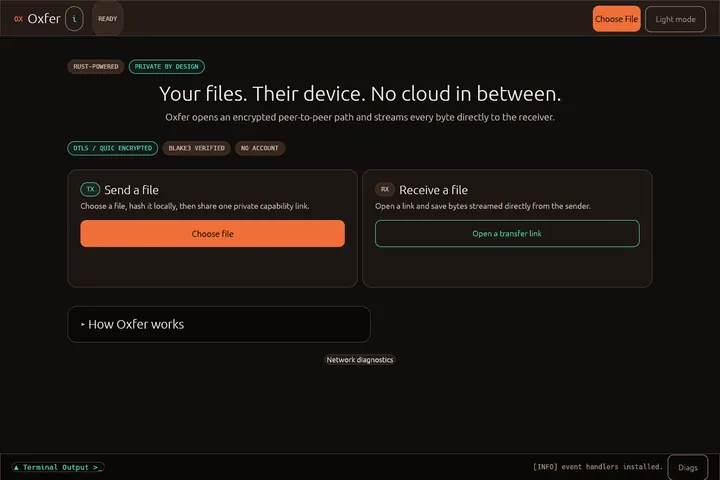
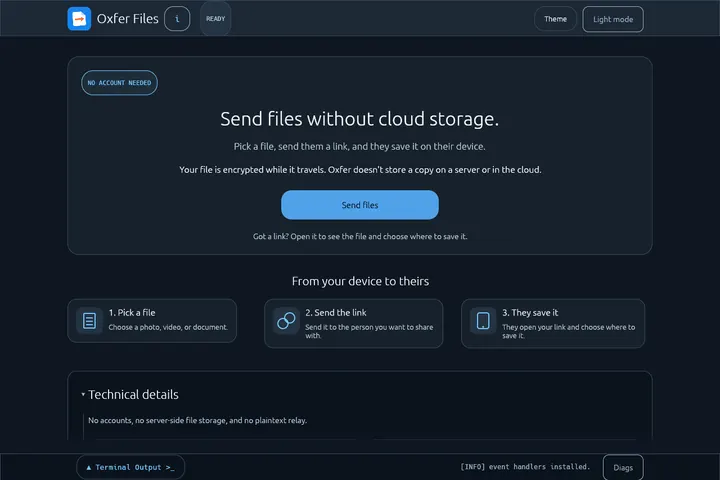
Oxfer: point to oxfer.app and refresh screenshot
Claude-Session: https://claude.ai/code/session_01Ry7pzuoBL4wEXqriU8xnUb

diff --git a/src/data.js b/src/data.js
@@ -135,7 +135,7 @@ const PROJECTS = [
    body:['SyncOxiders syncs files and email across cloud providers and adds inter-cloud encryption, sharing and backup — an end-to-end encrypted layer over the storage you already use.',
          'Written in Rust with a focus on safety and performance. Its peer-to-peer browser transfer ships as Oxfer, a standalone web app.']},
   {id:'oxfer',name:'Oxfer',kind:'app',cats:['fs','realtime'],shot:'oxfer',fit:'top',
-   live:'https://oxfer.pages.dev/',repo:'https://github.com/radumarias/syncoxiders/tree/main/p2p-transfer',issues:'https://github.com/radumarias/syncoxiders/issues',tags:['e2ee','p2p'],tech:['Rust','WebAssembly','E2EE','WebRTC','iroh','BLAKE3'],
+   live:'https://oxfer.app/',repo:'https://github.com/radumarias/syncoxiders/tree/main/p2p-transfer',issues:'https://github.com/radumarias/syncoxiders/issues',tags:['e2ee','p2p'],tech:['Rust','WebAssembly','E2EE','WebRTC','iroh','BLAKE3'],
    blurb:'End-to-end encrypted, peer-to-peer file transfer in the browser — your files, their device, no cloud in between.',
    body:['Pick a file, share one private link, and the receiver pulls it straight from your browser. Oxfer goes peer-to-peer whenever the network allows: the two browsers open a direct WebRTC data channel, so your files never pass through a server. No accounts, no uploads, no cloud storage: your files exist only on the two devices.',
          'Encrypted end to end on every path. The direct channel is DTLS between the two browsers. When no direct route exists, the transfer falls back to an iroh relay over QUIC with TLS 1.3, authenticated to the sender\'s endpoint, so the relay only forwards ciphertext it cannot read. The access key travels in the link\'s #fragment, which browsers never send to any server, and every file is BLAKE3-verified before it counts as saved. The only thing the network helpers (STUN and the relay) can see is connection metadata, such as IP addresses.',
